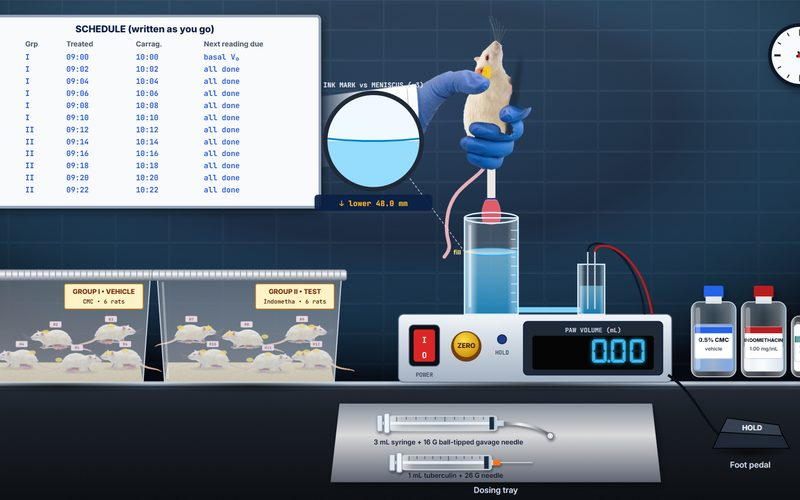
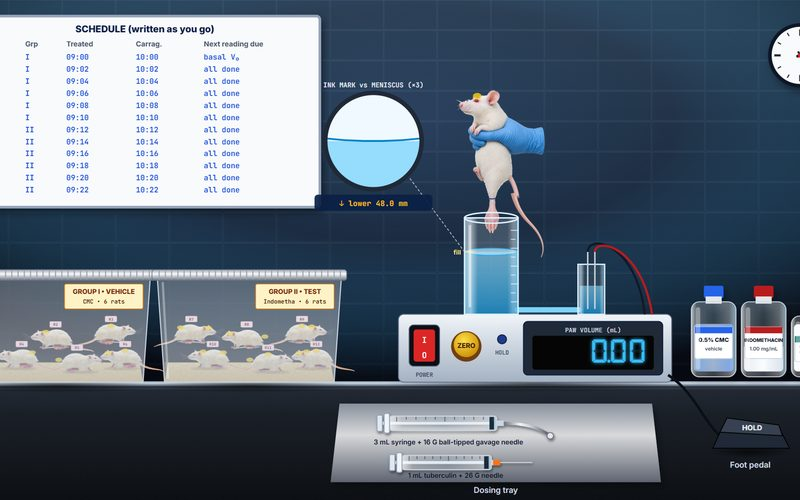
Hold the plethysmometer rat as in the real procedure, photographed
The rat over the measuring cell was a drawn hand and a rotated side-view
rat with a flat bar for a leg. It is now a photograph of the real hold:
upright in one gloved hand with a hind leg hanging toes-first into the
cell. Once the paw has swollen by 15% a photograph of the same hold with
an oedematous paw is shown, sized to the measured volume; below that the
normal paw widens and reddens a little. Both are placed at the ink-mark
height so the mark meets the meniscus, the magnifier shows the same
photo, and the tail curves away outside the cell.

Changed region(s): [[0.4062, 0.06, 0.6875, 0.48], [0.5312, 0.42, 0.5625, 0.51], [0.3438, 0.69, 0.375, 0.72]]

diff --git a/experiments/21-anti-inflammatory-activity-carrageenan-paw-oedema.html b/experiments/21-anti-inflammatory-activity-carrageenan-paw-oedema.html
@@ -852,12 +852,6 @@
         <rect x="${x - 6}" y="${y - 11}" width="6" height="22" rx="2" fill="#f1f5f9" stroke="#94a3b8"/>
       </g>`;
     }
-    // gloved hand (for held-animal views)
-    function handMarkup() {
-      // a photo render in the units of #hrHand, mirrored because the rat faces right: the hand comes from behind,
-      // the thumb rests behind the neck and the fingers close round the chest
-      return `<g transform="scale(-1 1)">${handArt('hold', -62, -70, 236)}</g>`;
-    }
 
     // ------------------------------------------------ stations, click routing, checklist + hints
     function goStation(n) {
@@ -1277,7 +1271,7 @@
         <path d="M ${REF.x + 4} ${REF.top - 14} C ${REF.x + 4} ${REF.top - 30}, ${REF.x + 56} ${REF.top - 22}, ${REF.x + 68} 352" stroke="#b91c1c" stroke-width="2.4" fill="none"/>`;
       // measuring cell (back wall), held rat, fluid + front wall
       s += `<rect x="${CELL_X - CELL_RX}" y="${CELL_TOP}" width="${CELL_RX * 2}" height="${CELL_BOT - CELL_TOP}" fill="#e0f2fe" fill-opacity="0.12"/>
-        <g id="heldRat" style="display:none"><path id="hrTail" stroke="#e7b0b8" stroke-width="4" fill="none" stroke-linecap="round"/><g id="hrBody"><g class="rm"></g></g><g id="hrLeg"></g><g id="hrHand"></g></g>
+        ${LEG_DEFS}${HOLD_DEFS}<g id="heldRat" style="display:none"><g id="hrTail"></g><g id="hrBody"><g class="rm"></g></g><g id="hrLeg"></g><g id="hrHand"></g></g>
         <clipPath id="cellClip"><rect x="${CELL_X - CELL_RX}" y="${CELL_TOP}" width="${CELL_RX * 2}" height="${CELL_BOT - CELL_TOP}"/></clipPath>
         <g clip-path="url(#cellClip)" id="cellFluid"></g>
         <g class="hot" data-act="cell"><rect x="${CELL_X - CELL_RX}" y="${CELL_TOP}" width="${CELL_RX * 2}" height="${CELL_BOT - CELL_TOP}" fill="url(#cellGlass)" stroke="#e0f2fe" stroke-width="1.6"/></g>
@@ -1339,11 +1333,6 @@
       $('board').innerHTML = h;
     }
     // ---------------------------------------------------------------- measuring
-    function heldGeom(tipY) {
-      const hip = { x: CELL_X, y: tipY - LEG }, a = ROT * Math.PI / 180, ca = Math.cos(a), sa = Math.sin(a);
-      const hx = -31 * ca - 4 * sa, hy = -31 * sa + 4 * ca, C = { x: hip.x - hx * RS, y: hip.y - hy * RS };
-      return { hip, C, rump: { x: C.x + (-50 * ca - 4 * sa) * RS, y: C.y + (-50 * sa + 4 * ca) * RS } };
-    }
     function pawReading() {
       const m = S.meas; if (!m) return 0;
       const x = (m.tipY - WY) / LM; if (x <= 0) return 0;
@@ -1358,20 +1347,9 @@
       const V = trueVol(r, S.t) * (1 + gauss() * 0.012);
       S.meas = { r, k: sl.k, h: sl.h, V, tipY: TIP_START, removing: 0, ph: Math.random() * 6, men: S.pl.wet ? 0 : gauss() * 0.035 };
       S.hand = null; $('heldRat').style.display = ''; $('heldRat').style.opacity = 1; $('magnifier').style.display = '';
-      const rm = document.querySelector('#hrBody .rm'); rm.innerHTML = heldRatMarkup(r);
-      $('hrHand').innerHTML = handMarkup(); beep('click'); drawDyn(); renderCtx();
+      $('hrHand').innerHTML = ''; $('hrLeg').innerHTML = ''; buildHold(S.meas);
+      beep('click'); drawDyn(); renderCtx();
       say(`R${r.id} held over the cell for the <b>${TP[sl.k]}</b> reading. Lower the paw until ${r.ink ? 'the ink mark meets the meniscus' : 'the malleolus is at the surface (no ink mark!)'}, then press the HOLD pedal.`, !r.ink);
-    }
-    // side-view rat for the held (hanging) position: legs drawn separately (from the original page)
-    function heldRatMarkup(r) {
-      const leg = (cls, near) => `<path class="${cls}" stroke="${near ? '#f0a3b4' : '#d98fa2'}" stroke-width="${near ? 3.6 : 3}" stroke-linecap="round" fill="none"/><ellipse class="${cls}p" rx="3.6" ry="1.8" fill="${near ? '#f0a3b4' : '#d98fa2'}"/>`;
-      const spots = r.id ? MARK_CODE[r.id].map(p => `<ellipse cx="${MARK_POS[p][0] * 1.3}" cy="${MARK_POS[p][1] * 1.5}" rx="8" ry="5" fill="#facc15" opacity=".85"/>`).join('') : '';
-      const html = `<g class="far">${leg('lf1')}${leg('lf2')}</g><g class="near">${leg('ln1', true)}</g>
-        <g transform="translate(3 -8) scale(1.6)">${animalSideArt({ kind: 'rat', noFeet: true, noTail: true })}</g>${spots}`;
-      const g = document.createElementNS(svgNS, 'g'); g.innerHTML = html;
-      const setLeg = (cls, jx, jy, px, py, bend) => { g.querySelector('.' + cls).setAttribute('d', `M ${jx} ${jy} Q ${(jx + px) / 2 + bend} ${(jy + py) / 2} ${px} ${py}`); const pw = g.querySelector('.' + cls + 'p'); pw.setAttribute('cx', px); pw.setAttribute('cy', py); };
-      setLeg('ln1', 22, 6, 30, 14, 2); setLeg('lf1', 18, 6, 26, 15, 2); setLeg('lf2', -32, 10, -28, 20, -2);
-      return g.innerHTML;
     }
     function nudgeDip(d) { if (!S.meas || S.meas.removing) { say('Place a rat on the cell first.', true); return; } S.meas.tipY = clamp(S.meas.tipY + d, TIP_MIN, TIP_MAX); }
     function holdReading() {
@@ -1395,27 +1373,72 @@
       setTimeout(() => { if (S.meas === m) { S.meas = null; $('heldRat').style.display = 'none'; $('magnifier').style.display = 'none'; drawDyn(); renderCtx(); refreshChecklist(); } }, 700);
       renderNotebook(); renderCtx();
     }
+    // filters shared by the held rat's paw
+    const LEG_DEFS = `<defs><filter id="legEdge" x="-20%" y="-10%" width="140%" height="120%"><feGaussianBlur stdDeviation=".3"/></filter></defs>`;
+    // The rat over the cell is a photograph of the real hold (tools/animal-photos): held upright round the chest by one
+    // gloved hand, one hind leg hanging straight down, toes first. n: a normal paw (ankle 1097, toe tip 1327 in its
+    // pixels); s: the same hold with an oedematous paw, shown once the paw has swollen. Each photo is anchored on the
+    // scene at its ink-mark height, so the mark meets the meniscus whichever paw is shown. Its own tail would hang
+    // into the cell, so the tail below tailCut is masked and runs on curving away from the cell.
+    const HOLDS = {
+      n: { src: '../assets/img/animals/hold-rat-dip.webp?v=1', w: 1024, h: 1536, px: 470, ank: 1097, mark: 1081, tailCut: 1080, tx: 690, k: 1,
+        spots: { head: [345, 92], neck: [430, 255], back: [575, 690], rump: [585, 860], tail: [668, 905] } },
+      s: { src: '../assets/img/animals/hold-rat-dip-swollen.webp?v=1', w: 1036, h: 1518, px: 471, ank: 1100, mark: 1086, tailCut: 1095, tx: 688, k: .94,
+        spots: { head: [338, 82], neck: [428, 255], back: [580, 712], rump: [591, 892], tail: [680, 940] } }
+    };
+    const HOLD_S = PAW_L / (1327 - 1097);      // scene px per photo px, from the normal photo's paw
+    const SWOLLEN_AT = .15;                    // fractional increase in paw volume at which the swollen photo is shown
+    const HOLD_DEFS = `<defs>${Object.entries(HOLDS).map(([v, H]) => `<linearGradient id="hdPawF${v}" gradientUnits="userSpaceOnUse" x1="0" y1="${H.ank - 70}" x2="0" y2="${H.ank - 10}"><stop offset="0" stop-color="#000"/><stop offset="1" stop-color="#fff"/></linearGradient>
+      <mask id="hdPawM${v}" maskUnits="userSpaceOnUse" x="360" y="${H.ank - 70}" width="220" height="420"><rect x="360" y="${H.ank - 70}" width="220" height="420" fill="url(#hdPawF${v})"/></mask>
+      <linearGradient id="hdTailF${v}" gradientUnits="userSpaceOnUse" x1="0" y1="${H.tailCut - 40}" x2="0" y2="${H.tailCut}"><stop offset="0" stop-color="#fff"/><stop offset="1" stop-color="#000"/></linearGradient>
+      <mask id="hdMain${v}" maskUnits="userSpaceOnUse" x="0" y="0" width="${H.w}" height="${H.h}"><rect width="${H.w}" height="${H.h}" fill="#fff"/><rect x="600" y="${H.tailCut - 40}" width="200" height="${H.h - H.tailCut + 40}" fill="url(#hdTailF${v})"/></mask>`).join('')}
+      <filter id="hdRed" color-interpolation-filters="sRGB"><feColorMatrix type="matrix" values="1 0 0 0 0  0 .8 0 0 0  0 0 .78 0 0  0 0 0 1 0"/></filter></defs>`;
+    // the photo in its own pixel units, with the rat's picric marks
+    function holdPhoto(r, v) {
+      const H = HOLDS[v];
+      const spots = r.id ? MARK_CODE[r.id].map(p => `<ellipse cx="${H.spots[p][0]}" cy="${H.spots[p][1]}" rx="42" ry="30" fill="#facc15" opacity=".82"/>`).join('') : '';
+      return `<image width="${H.w}" height="${H.h}" preserveAspectRatio="none" decoding="sync" href="${H.src}" mask="url(#hdMain${v})"/>${spots}
+        <g class="hdPaw"><image width="${H.w}" height="${H.h}" preserveAspectRatio="none" decoding="sync" href="${H.src}" mask="url(#hdPawM${v})"/></g><g class="hdInk"></g>`;
+    }
+    // where a photo sits for a paw tip at tip: its scale, and its ink-mark height on the scene's mark line
+    function holdPlace(v, tip, rot) {
+      const H = HOLDS[v], s = HOLD_S * H.k, ox = CELL_X - H.px * s, oy = (tip - LM) - H.mark * s;
+      return { s, ox, oy, t: `translate(${ox.toFixed(2)} ${oy.toFixed(2)}) scale(${s.toFixed(5)}) rotate(${rot.toFixed(2)} 600 460)` };
+    }
+    const holdVariant = m => (m.V - m.r.V0) / m.r.V0 >= SWOLLEN_AT ? 's' : 'n';
+    function buildHold(m) {
+      const v = holdVariant(m); m.hv = v;
+      document.querySelector('#hrBody .rm').innerHTML = holdPhoto(m.r, v);
+      $('magLeg').innerHTML = `<g class="mgT">${holdPhoto(m.r, v)}</g><text class="mgInkT" x="${MAG.x - MAG.r + 6}" font-family="JetBrains Mono" font-size="7" font-weight="700" fill="#1e3a8a"></text>`;
+    }
+    // The paw follows the measured swelling: the normal paw widens a little and reddens until the swollen photo takes
+    // over; the swollen paw is narrowed back towards the normal width for a moderate oedema.
+    function setHoldPaw(g, v, e, red, ink) {
+      const H = HOLDS[v], pw = g.querySelector('.hdPaw');
+      const k = v === 'n' ? 1 + e * 1.1 : .8 + .2 * Math.min(1, (e - SWOLLEN_AT) / .45);
+      pw.setAttribute('transform', `translate(${H.px} ${H.ank}) scale(${k.toFixed(3)} 1) translate(${-H.px} ${-H.ank})`);
+      if (v === 'n' && red > .05) pw.setAttribute('filter', 'url(#hdRed)'); else pw.removeAttribute('filter');
+      const hw = v === 'n' ? 28 + e * 18 : 34;
+      g.querySelector('.hdInk').innerHTML = (v === 'n' && red > .05 ? `<ellipse cx="${H.px}" cy="${(H.ank + 1327) / 2}" rx="${(24 * k).toFixed(1)}" ry="115" fill="#e0465a" opacity="${(red * .3).toFixed(2)}" filter="url(#legEdge)"/>` : '')
+        + (ink ? `<path d="M ${H.px - hw} ${H.mark} Q ${H.px} ${H.mark + 10} ${H.px + hw} ${H.mark}" stroke="#1e3a8a" stroke-width="11" fill="none" opacity=".9"/>` : '');
+    }
     function drawHeld(dtR) {
       const m = S.meas; if (!m) return;
       const T = performance.now() / 1000 + m.ph;
       if (m.removing) { m.removing += dtR; m.tipY -= dtR * 240; $('heldRat').style.opacity = Math.max(0, 1 - m.removing * 1.5); }
-      const tip = m.tipY, G = heldGeom(tip);
-      $('hrBody').setAttribute('transform', `translate(${G.C.x} ${G.C.y}) rotate(${ROT + Math.sin(T * 1.3) * 1.5}) scale(${RS})`);
-      $('hrHand').setAttribute('transform', `translate(${G.C.x} ${G.C.y}) scale(0.7)`);
-      const R = G.rump, sw = Math.sin(T * 1.4) * 6;
-      $('hrTail').setAttribute('d', `M ${R.x} ${R.y} C ${R.x - 8} ${R.y + 22}, ${R.x - 40 + sw} ${R.y + 26}, ${R.x - 46 + sw} ${R.y + 60} S ${R.x - 36} ${R.y + 92}, ${R.x - 50 + sw} ${R.y + 108}`);
-      const e = Math.max(0, (m.V - m.r.V0) / m.r.V0), k = 1 + e * 1.1, red = Math.min(1, e / 0.5);
-      const col = `rgb(${Math.round(242 - 18 * red)},${Math.round(167 - 75 * red)},${Math.round(182 - 76 * red)})`;
-      const x = CELL_X, hy = G.hip.y, ank = tip - PAW_L, mark = tip - LM;
-      const pawPath = (X, A, Tp, s, w) => `M ${X - 3.5 * s * w} ${A} C ${X - 6 * s * w} ${A + 8 * s}, ${X - 6.5 * s * w} ${Tp - 10 * s}, ${X - 5 * s * w} ${Tp - 3 * s} Q ${X} ${Tp + 1.5 * s} ${X + 5 * s * w} ${Tp - 3 * s} C ${X + 6.5 * s * w} ${Tp - 10 * s}, ${X + 6 * s * w} ${A + 8 * s}, ${X + 3.5 * s * w} ${A} Z`;
-      $('hrLeg').innerHTML = `<path d="M ${x} ${hy + 14} L ${x} ${ank + 2}" stroke="#ede7e3" stroke-width="${7 + e * 3}" stroke-linecap="round"/>
-        <ellipse cx="${x + 1}" cy="${hy + 8}" rx="10" ry="18" fill="url(#furGrad)" stroke="#e0d8d4" stroke-width="0.5"/>
-        <path d="${pawPath(x, ank, tip, 1, k)}" fill="${col}" stroke="#c97f8f" stroke-width="0.6"/>
-        ${m.r.ink ? `<path d="M ${x - 5.5 - e * 2} ${mark} Q ${x} ${mark + 1.4} ${x + 5.5 + e * 2} ${mark}" stroke="#1e3a8a" stroke-width="1.6" fill="none"/>` : ''}`;
-      const kx = MAG.k, my = y => MAG.y + (y - WY) * kx;
-      $('magLeg').innerHTML = `<rect x="${MAG.x - (3.5 + e * 1.5) * kx}" y="${MAG.y - MAG.r - 4}" width="${(7 + e * 3) * kx}" height="${Math.max(0, my(ank + 2) - MAG.y + MAG.r + 4)}" fill="#ede7e3" stroke="#d6cec9"/>
-        <path d="${pawPath(MAG.x, my(ank), my(tip), kx, k)}" fill="${col}" stroke="#c97f8f"/>
-        ${m.r.ink ? `<path d="M ${MAG.x - (5.5 + e * 2) * kx} ${my(mark)} Q ${MAG.x} ${my(mark) + 4} ${MAG.x + (5.5 + e * 2) * kx} ${my(mark)}" stroke="#1e3a8a" stroke-width="3.5" fill="none"/><text x="${MAG.x - MAG.r + 6}" y="${my(mark) - 4}" font-family="JetBrains Mono" font-size="7" font-weight="700" fill="#1e3a8a">ink mark</text>` : ''}`;
+      const tip = m.tipY, x = CELL_X, mark = tip - LM;
+      if (m.hv !== holdVariant(m)) buildHold(m);
+      const v = m.hv, H = HOLDS[v], P = holdPlace(v, tip, Math.sin(T * 1.3) * .8);
+      $('hrBody').setAttribute('transform', P.t);
+      const e = Math.max(0, (m.V - m.r.V0) / m.r.V0), red = Math.min(1, e / 0.5);
+      setHoldPaw(document.querySelector('#hrBody .rm'), v, e, red, m.r.ink);
+      // the tail: the photo's own tail down to just above the cell rim, then on outside the cell, swinging a little
+      const sw = Math.sin(T * 1.4) * 4, tx = P.ox + H.tx * P.s, ty = P.oy + (H.tailCut - 60) * P.s;
+      $('hrTail').innerHTML = '<g filter="url(#aniMouseTail)">' + photoTailSVG(`M ${tx.toFixed(1)} ${ty.toFixed(1)} C ${(tx + 2).toFixed(1)} ${(ty + 10).toFixed(1)}, ${(tx + 10 + sw).toFixed(1)} ${(ty + 22).toFixed(1)}, ${(tx + 22 + sw).toFixed(1)} ${(ty + 34).toFixed(1)} C ${(tx + 34 + sw).toFixed(1)} ${(ty + 46).toFixed(1)}, ${(tx + 40 + sw).toFixed(1)} ${(ty + 60).toFixed(1)}, ${(tx + 36 + sw * 1.5).toFixed(1)} ${(ty + 72).toFixed(1)}`, 1.3) + '</g>';
+      // the magnifier shows the same photo, enlarged about the meniscus
+      const mg = $('magLeg').querySelector('.mgT');
+      if (mg) { mg.setAttribute('transform', `translate(${MAG.x} ${MAG.y}) scale(${MAG.k}) translate(${-x} ${-WY}) ${P.t}`); setHoldPaw(mg, v, e, red, m.r.ink); }
+      const mt = $('magLeg').querySelector('.mgInkT'); if (mt) { mt.textContent = m.r.ink ? 'ink mark' : ''; mt.setAttribute('y', (MAG.y + (mark - WY) * MAG.k - 6).toFixed(1)); }
       const d = markDelta(m), t = $('magText');
       if (m.removing) t.textContent = '';
       else if (!m.r.ink) { t.textContent = 'no ink mark: guess depth'; t.setAttribute('fill', '#fbbf24'); }
@@ -1528,7 +1551,7 @@
     }
     function buildScene() {
       $('scene').innerHTML = DEFS + (S.station === 1 ? sceneAnimals() : S.station === 2 ? sceneSolutions() : sceneBench());
-      if (S.station === 3 && S.meas) { $('heldRat').style.display = ''; $('magnifier').style.display = ''; document.querySelector('#hrBody .rm').innerHTML = heldRatMarkup(S.meas.r); $('hrHand').innerHTML = handMarkup(); }
+      if (S.station === 3 && S.meas) { $('heldRat').style.display = ''; $('magnifier').style.display = ''; $('hrHand').innerHTML = ''; buildHold(S.meas); }
       drawDyn();
     }
     function drawDyn() { S._sceneV++; dyn1(); dyn2(); dyn3(); updClocks(); refreshHints(); }

diff --git a/tools/animal-photos/make.py b/tools/animal-photos/make.py
@@ -10,7 +10,9 @@ from PIL import Image
 
 HERE = Path(__file__).parent
 OUT = HERE.parent.parent / 'static' / 'assets' / 'img' / 'animals'
-JOBS = {'mouse-side-r': ('mouse-side', .7), 'mouse-top': ('mouse-top-photo', .6), 'rat-top': ('rat-top-photo', .6), 'mouse-front': ('mouse-front-photo', .5),
+# hold-rat-dip-swollen-cut is hold-rat-dip-swollen cut out of its white background (near-white connected to the border)
+# actophotometer-empty is actophotometer with its mouse removed (the floor rebuilt from the rows above and below it)
+JOBS = {'mouse-side-r': ('mouse-side', .7), 'mouse-top': ('mouse-top-photo', .6), 'rat-top': ('rat-top-photo', .6), 'mouse-front': ('mouse-front-photo', .5), 'hold-rat-dip': ('hold-rat-dip', .7), 'actophotometer-empty': ('actophotometer', .6), 'hold-rat-dip-swollen-cut': ('hold-rat-dip-swollen', .7),
         # photographs of the handling holds, for the restraint and handling scenes (hold-scruff-upright-b is a spare)
         'hold-scruff-sc': ('hold-scruff-sc', .55), 'hold-scruff-im': ('hold-scruff-im', .5), 'hold-scruff-tilt': ('hold-scruff-tilt', .55),
         'hold-scruff-upright': ('hold-scruff-upright', .6), 'hold-restrainer': ('hold-restrainer', .5), 'hold-tail': ('hold-tail', .35)}
